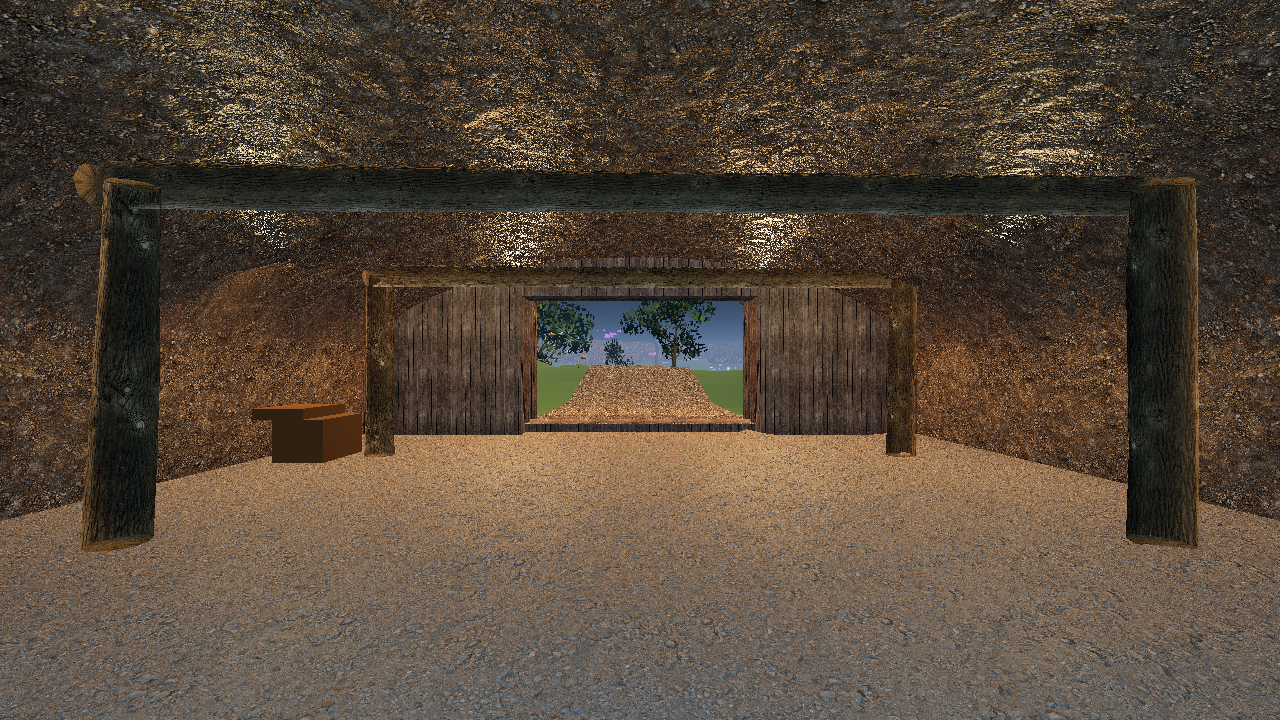
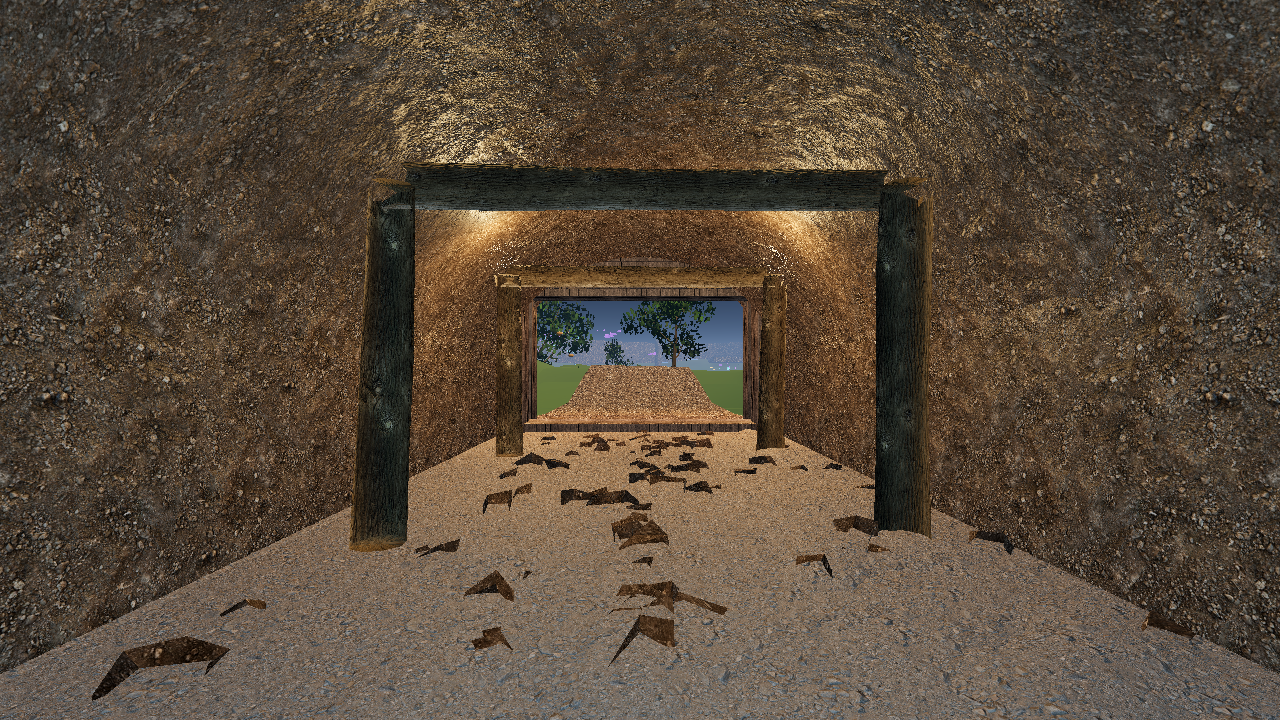
feat(worldgen): the antechamber narrows to a tunnel, and stops being perfect — docs/art/_entrance_antechamber.md
Five notes from the owner, four of them the same note: nothing built is perfect.
"Todo lo que me hace es como muro, piedra, muralla, vigas, todo eso lo hace
perfecto, y eso no es asi en la vida real."

HALF WIDTH 7.0 -> 3.5. Seven metres of room around a six metre doorway, so it reads
as a tunnel rather than a hall. This also repairs an argument I got wrong two commits
ago: I rejected the classic wall-to-wall mine set because a three-piece frame is for
a narrow drift and this was a 14 m chamber. At 7 m it IS a drift. A tunnel and a hall
want different carpentry, and narrowing it is the point rather than a side effect.

ANGULAR SPOIL replaces the noise-displaced dunes. Smooth noise cannot make broken
rock: stone fractures rather than erodes, so debris is facets and sharp edges, and
the owner read the dunes as exactly what they were. Each chunk is a cube with all
eight corners shoved somewhere else independently, flat-shaded so every facet stays
readable, scattered 120 across the floor and weighted toward the walls, because the
middle of a walked floor wears to a path. Bedding depth took two passes: sitting on
the plane read as objects placed on a floor, sinking them 0.16 flattened them into
brown patches, and a tenth proud keeps the facets lit while the base disappears.

LAGGING BECOMES BOARDS. It was one box wearing a photograph of planks — the last
perfectly made thing in the room. Now it is individual boards of unequal width, each
[…]

diff --git a/game/docs/art/_entrance_antechamber.md b/game/docs/art/_entrance_antechamber.md
@@ -78,6 +78,35 @@ jugador:
 | **B — apuntalada** | 3-4 | marcos regulares y bien cortados, tablonería completa, piso emparejado | el ritmo: los marcos se repiten a paso constante |
 | **C — obra de ingeniería** | 5 | túnel con bóveda construida, luminarias fijas, revestimiento | la roca ya no se ve: la obra la tapa |
 
+**Rieles y durmientes: recién en B** (Joan, 2026-08-19). Aparecen en las cuatro fotos
+de mina de `_references/mine_adit/` y son la firma más fuerte de "esto lo hizo
+alguien" — precisamente por eso **no van en el piso 1**. Un socavón picado a mano es
+anterior a que alguien invierta en vía. Ponerlos en la etapa A gastaría de una la
+señal que tiene que aparecer cuando el jugador sube.
+
+### Ancho: 7 m, no 14 (Joan, 2026-08-19)
+
+> *"que se sienta más como un túnel, quizás de un ancho se debía el cincuenta por
+> ciento... que deje un poquito más grande que la puerta"*
+
+`ENTRANCE_HALL_HALF_W` 7.0 → 3.5. Siete metros de sala alrededor de un vano de seis.
+
+Y arregla un razonamiento que yo había hecho mal: descarté el marco de mina clásico
+—postes de pared a pared con su collar— porque un marco de tres piezas es de galería
+angosta y esto era una sala de 14 m. **A 7 m ES una galería.** Un túnel y un salón
+piden carpintería distinta; angostarlo es el punto, no un efecto secundario.
+
+### La regla que atraviesa todo esto
+
+> Joan, 2026-08-19: *"todo lo que me hace es como muro, piedra, muralla, vigas, todo
+> eso lo hace perfecto, y eso no es así en la vida real"*
+
+**La irregularidad tiene que vivir en la GEOMETRÍA.** Una textura de tablas sobre una
+losa plana es una foto de carpintería, no carpintería: se lee como empapelado. Vale
+igual para el cascote (ruido suave da dunas, no roca partida — la piedra se fractura,
+no se erosiona) y para el entablado (tablas de anchos distintos, cada una un
+centímetro adelantada o atrasada respecto a la vecina, ninguna a plomo).
+
 Es un **termómetro narrativo**: el jugador lee cuánto avanzó la civilización en la torre por
 cómo está hecha la puerta, sin que nadie se lo cuente. Encaja con el modelo
 Descubrimiento → Conquista → Civilización de `_world_seeds_postalpha.md`.
